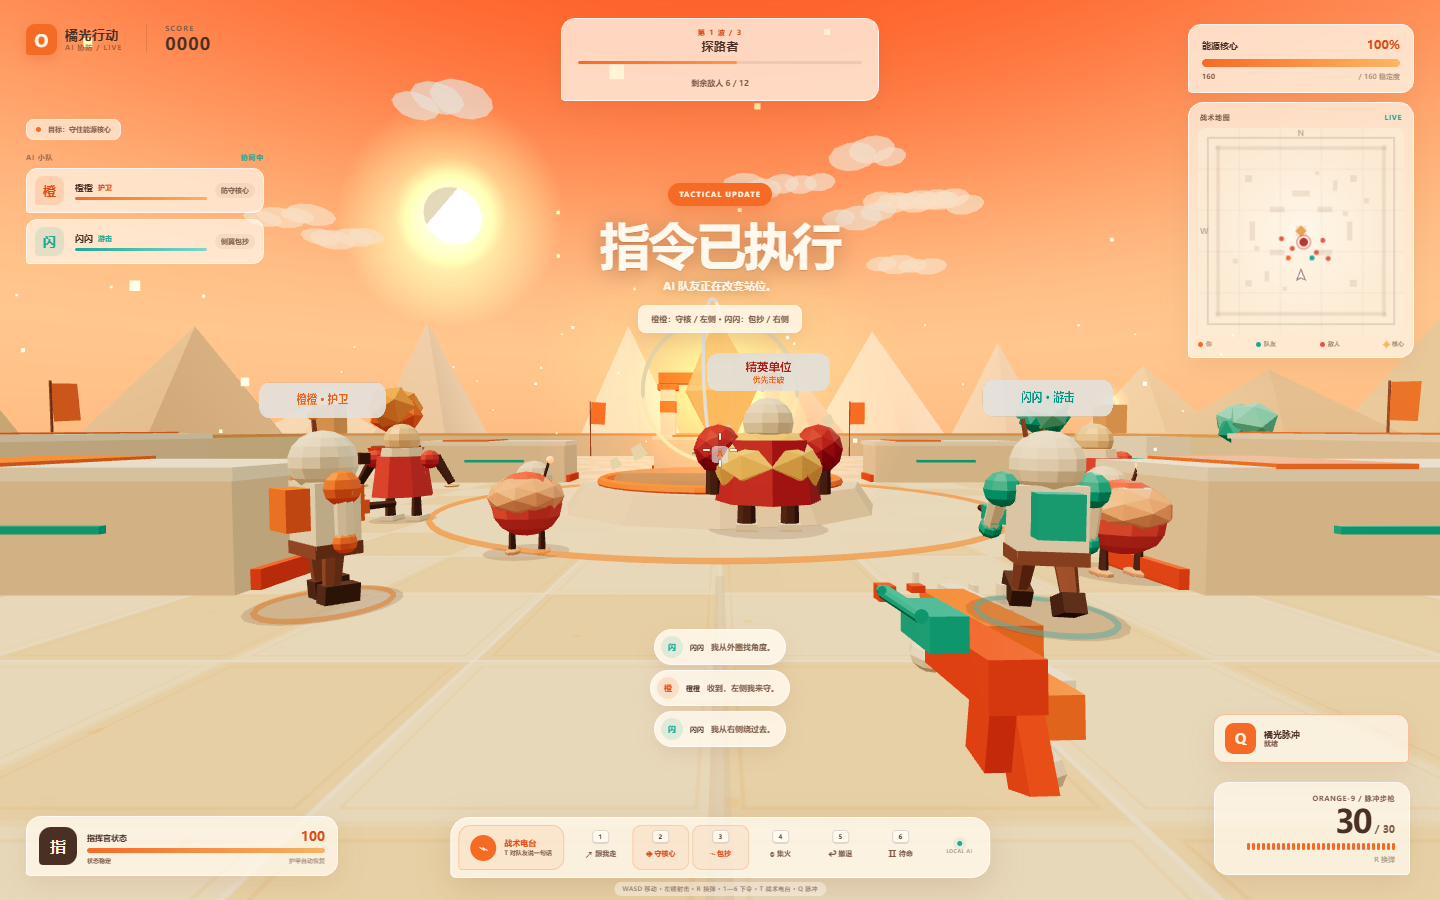
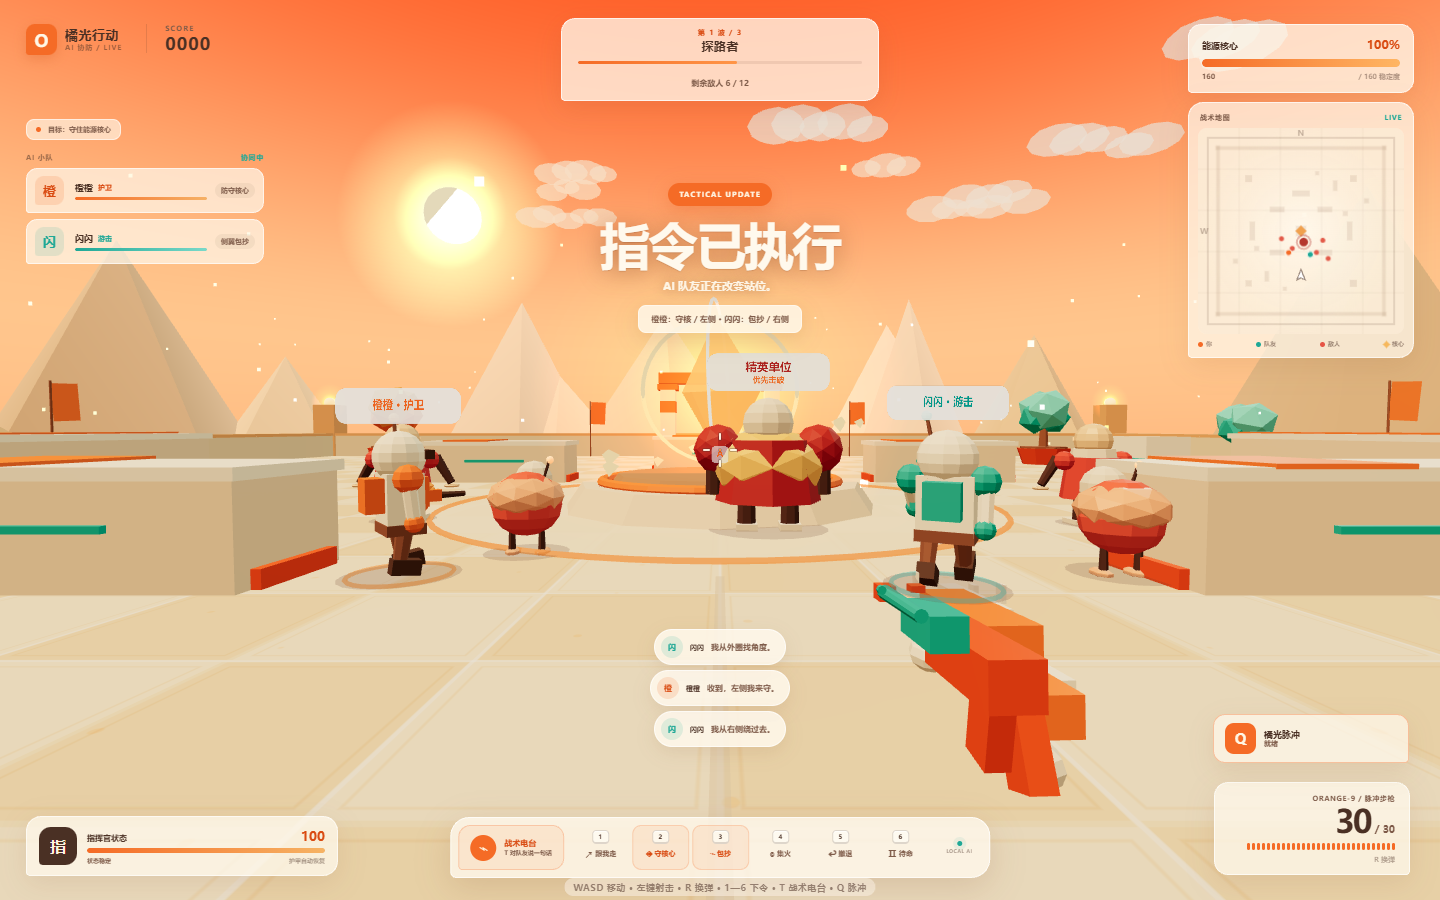
补齐交付文档，修复 HUD 缩放与 iframe 指针锁定降级

diff --git a/src/game.js b/src/game.js
@@ -66,6 +66,9 @@ export class Game {
     this.projectiles = [];
     this.effects = [];
     this.input = { keys: new Set(), mouseDown: false };
+    this.dragLook = false;
+    this.dragging = false;
+    this.lockBlocked = false;
     this.clock = new THREE.Clock();
     this.raycaster = new THREE.Raycaster();
     this.raycaster.far = CONFIG.weapon.range;
@@ -137,19 +140,20 @@ export class Game {
         this.pause();
       }
     });
+    // iframe 里拿不到指针锁时，退化成「按住左键拖动视角」，保证游戏仍然可玩
+    document.addEventListener('pointerlockerror', () => this.enableDragLook());
     document.addEventListener('mousemove', (event) => {
-      if (
-        document.pointerLockElement === this.canvas &&
-        this.state === 'playing' &&
-        !this.ui?.radioOpen
-      ) {
+      if (this.state !== 'playing' || this.ui?.radioOpen) return;
+      const locked = document.pointerLockElement === this.canvas;
+      if (locked || (this.dragLook && this.dragging)) {
         this.player.applyLook(event.movementX, event.movementY, CONFIG.player.mouseSensitivity);
       }
     });
     document.addEventListener('mousedown', (event) => {
       if (event.button !== 0) return;
       if (this.state === 'playing' && !this.ui?.radioOpen) {
-        if (document.pointerLockElement !== this.canvas) {
+        this.dragging = true;
+        if (document.pointerLockElement !== this.canvas && !this.lockBlocked) {
           this.requestPointerLock();
         }
         this.input.mouseDown = true;
@@ -157,10 +161,13 @@ export class Game {
       }
     });
     document.addEventListener('mouseup', (event) => {
-      if (event.button === 0) this.input.mouseDown = false;
+      if (event.button === 0) {
+        this.input.mouseDown = false;
+        this.dragging = false;
+      }
     });
     this.canvas.addEventListener('click', () => {
-      if (this.state === 'playing' && document.pointerLockElement !== this.canvas) {
+      if (this.state === 'playing' && document.pointerLockElement !== this.canvas && !this.lockBlocked) {
         this.requestPointerLock();
       }
     });
@@ -174,11 +181,13 @@ export class Game {
     });
     window.addEventListener('blur', () => {
       this.input.mouseDown = false;
+      this.dragging = false;
       this.input.keys.clear();
     });
     document.addEventListener('visibilitychange', () => {
       if (document.hidden) {
         this.input.mouseDown = false;
+        this.dragging = false;
         this.input.keys.clear();
         if (this.state === 'playing') this.pause();
       }
@@ -234,18 +243,25 @@ export class Game {
     this.input.keys.add(event.code);
   }
 
+  enableDragLook() {
+    if (this.dragLook) return;
+    this.dragLook = true;
+    this.lockBlocked = true;
+    this.ui?.showLockFallback();
+  }
+
   requestPointerLock() {
-    if (document.pointerLockElement === this.canvas) return;
+    if (document.pointerLockElement === this.canvas || this.lockBlocked) return;
     try {
       const result = this.canvas.requestPointerLock();
       if (result && typeof result.catch === 'function') {
         result.catch(() => {
-          // Browsers may reject a synthetic pointer lock request. Clicking the
-          // canvas retries without interrupting the run.
+          // 浏览器拒绝合成事件触发的指针锁定：退回拖拽视角，不中断这一局
+          this.enableDragLook();
         });
       }
     } catch (error) {
-      // Keep the game playable with keyboard even if pointer lock is blocked.
+      this.enableDragLook();
     }
   }
 

diff --git a/src/ui.js b/src/ui.js
@@ -28,6 +28,9 @@ export class UI {
       startButton: $('start-button'),
       intelToggle: $('intel-toggle'),
       intelDrawer: $('intel-drawer'),
+      openWindow: $('open-window'),
+      lockFallback: $('lock-fallback'),
+      lockFallbackOpen: $('lock-fallback-open'),
       muteStart: $('mute-start'),
       resume: $('resume-button'),
       restart: $('restart-button'),
@@ -105,6 +108,17 @@ export class UI {
       this.el.intelToggle.textContent = open ? '收起任务简报' : '查看任务简报';
       this.game.audio.uiClick();
     });
+    // 被嵌在 iframe 里时（例如魔搭创空间），提示可以开新窗口，那里鼠标锁定最稳
+    const embedded = window.self !== window.top;
+    if (embedded && this.el.openWindow) {
+      this.el.openWindow.hidden = false;
+      this.el.openWindow.addEventListener('click', () => {
+        window.open(window.location.href, '_blank', 'noopener');
+      });
+    }
+    this.el.lockFallbackOpen?.addEventListener('click', () => {
+      window.open(window.location.href, '_blank', 'noopener');
+    });
     this.el.muteStart?.addEventListener('click', () => this.toggleMute());
     this.el.resume?.addEventListener('click', () => this.game.resume());
     this.el.restart?.addEventListener('click', () => {
@@ -172,6 +186,11 @@ export class UI {
     this.el.hud.classList.remove('hidden');
     this.el.menuSceneLabel.style.display = 'none';
     document.body.classList.add('is-playing');
+  }
+
+  // 指针锁定被浏览器拦截时（常见于 iframe 嵌入），提示改用拖拽视角
+  showLockFallback() {
+    this.el.lockFallback?.classList.remove('hidden');
   }
 
   showStart() {

diff --git a/styles.css b/styles.css
@@ -2067,16 +2067,55 @@ body.is-playing .menu-scene-label {
   left: 50%;
   bottom: 4px;
   transform: translateX(-50%);
-  padding: 3px 8px;
+  padding: 3px 9px;
   border-radius: 999px;
   background: rgba(255, 248, 235, 0.55);
-  color: rgba(74, 48, 36, 0.5);
-  font-size: 6px;
+  color: rgba(74, 48, 36, 0.55);
+  font-size: 9px;
   font-weight: 600;
   letter-spacing: 0.05em;
   white-space: nowrap;
   pointer-events: none;
   backdrop-filter: blur(8px);
+}
+
+.lock-fallback {
+  position: absolute;
+  left: 50%;
+  bottom: 96px;
+  transform: translateX(-50%);
+  display: flex;
+  align-items: center;
+  gap: 10px;
+  padding: 7px 10px 7px 14px;
+  border-radius: 999px;
+  background: rgba(255, 244, 227, 0.94);
+  border: 1px solid rgba(245, 107, 38, 0.28);
+  box-shadow: 0 10px 26px rgba(184, 92, 38, 0.16);
+  color: #6d4331;
+  font-size: 12px;
+  font-weight: 600;
+  white-space: nowrap;
+  pointer-events: auto;
+}
+
+.lock-fallback b {
+  color: var(--orange-deep, #d94b12);
+}
+
+.lock-fallback button {
+  padding: 5px 11px;
+  border: 0;
+  border-radius: 999px;
+  background: var(--orange);
+  color: #fff6e6;
+  font-size: 12px;
+  font-weight: 800;
+  cursor: pointer;
+}
+
+.lock-fallback button:hover {
+  background: #e85c22;
 }
 
 /* -------------------------------------------------------------------------- */

diff --git a/index.html b/index.html
@@ -57,6 +57,7 @@
               <b>→</b>
             </button>
             <button id="intel-toggle" class="ghost-button" type="button">查看任务简报</button>
+            <button id="open-window" class="ghost-button" type="button" hidden>在新窗口打开</button>
           </div>
           <div id="intel-drawer" class="intel-drawer" aria-hidden="true">
             <div class="intel-item"><b>01</b><span>守住中央能源核心，撑过三波进攻。</span></div>
@@ -234,6 +235,10 @@
       <div id="objective-chip" class="objective-chip"><i></i><span>目标：守住能源核心</span></div>
       <div id="damage-overlay" class="damage-overlay"></div>
       <div class="hud-hints">WASD 移动 · 左键射击 · R 换弹 · 1—6 下令 · T 战术电台 · Q 脉冲</div>
+      <div id="lock-fallback" class="lock-fallback hidden">
+        <span>指针锁定被拦截 · 已切换为<b>按住左键拖动视角</b></span>
+        <button id="lock-fallback-open" type="button">在新窗口打开</button>
+      </div>
     </section>
 
     <section id="pause-screen" class="screen pause-screen hidden">

diff --git a/DEPLOY.md b/DEPLOY.md
@@ -1,0 +1,92 @@
+# 部署到魔搭创空间（Static）
+
+比赛要求作品部署在魔搭创空间且可公开试玩。本项目是纯静态站点，部署方式如下。
+
+## 关键前提
+
+- **`index.html` 必须在仓库根目录**，不能再套一层 `dist/` 或项目目录。
+- 创空间的 **SDK 类型必须选 `Static`**（不要选 Gradio / Streamlit / Docker，那些会拉 Python 镜像跑后端，纯前端用不上还慢）。
+- 所有资源都是相对路径（`./styles.css`、`./src/main.js`、`../vendor/three.module.js`），换域名、换子目录都不用改代码。
+
+## 方式 A：网页上传（文件少，推荐）
+
+1. 打开 <https://modelscope.cn/studios>，点右上角「创建创空间」。
+2. 填空间名（建议 `orange-protocol`）、显示名「橘光行动 · AI 协防」、简介。
+   可见性第一次先选**私有**，验收完再改公开。
+3. 进入空间的「空间文件」页，把本目录下这些内容**整体上传**（保持目录结构）：
+
+   ```
+   index.html
+   styles.css
+   src/          （8 个 .js）
+   vendor/       （three.module.js / three.core.js / LICENSE-three.txt）
+   ```
+
+   `checks/`、`screenshots/`、`README.md`、`SUBMISSION.md`、`server.mjs` 可以不传，不影响运行。
+4. 进入「设置 / 部署设置」，SDK 类型选 **Static**，入口文件填 `index.html`，保存。
+5. 等状态变成「运行中」，打开 `https://modelscope.cn/studios/<你的用户名>/orange-protocol`。
+
+> 若平台要求 `README.md` 里写 `deployspec`，在空间仓库的 README 顶部加：
+>
+> ```yaml
+> ---
+> deployspec:
+>   entry_file: index.html
+> ---
+> ```
+>
+> 这种情况请**只改空间里的那份 README**，别把 YAML 头写进项目 README（GitHub 上会把这段渲染成一张表）。
+
+## 方式 B：git 推送
+
+```bash
+git remote add space https://www.modelscope.cn/studios/<用户名>/orange-protocol.git
+git push space main
+```
+
+推完同样要去「部署设置」确认 SDK = Static、入口 = `index.html`。
+
+## 部署后必做的验收
+
+### 1. 打开空间首页，看 iframe 里能不能玩
+
+创空间会把页面嵌在自己的 iframe 里。**浏览器默认不允许 iframe 拿指针锁定**，除非平台给 iframe 加了 `allow="pointer-lock"`。本作已经做了两层兜底：
+
+- 检测到 `pointerlockerror` → 自动切换成 **按住左键拖动视角**，并在指令栏上方浮出一条提示；
+- 检测到在 iframe 里运行 → 开始页多出一个「在新窗口打开」按钮。
+
+**验收动作**：点开始 → 动鼠标看视角是否跟着转。
+
+- 视角跟着转 → 指针锁定成功，正常。
+- 视角不转、底部出现「指针锁定被拦截」→ 点提示里的「在新窗口打开」，在新标签页里玩。这条路径一定能拿到指针锁定。
+
+如果希望评委默认就能在 iframe 里玩，去平台确认空间 iframe 是否带 `allow="pointer-lock"`；带不上就保留现在的兜底，并在提交说明里写一句「建议在新窗口打开获得最佳手感」。
+
+### 2. 控制台零报错
+
+F12 → Console，确认没有红色。重点看：
+
+- `three.module.js` 404 → `vendor/` 没传全（`three.core.js` 必须和它放一起）；
+- `Failed to load module script` → MIME 类型不对，通常是上传后文件名被改动。
+
+### 3. 完整跑一局
+
+开场 → 三波 → 结算。确认：
+
+- 队友能听懂 `1`—`6` 和 `T` 打字的指令；
+- 音效在首次点击后才有（浏览器自动播放策略，正常）；
+- 结算页有评级和队长点评。
+
+### 4. 换个屏幕尺寸
+
+1080p 与 2K 各开一次，HUD 不应错位或被裁切（HUD 会按视口宽度等比缩放）。
+
+## 常见问题
+
+| 现象 | 原因 | 处理 |
+|---|---|---|
+| 打开是空白页 | `index.html` 不在根目录 | 把所有文件铺到根，不要留子目录 |
+| 页面能开但全黑 | `vendor/three.core.js` 缺失 | 补传该文件 |
+| 点了开始没反应 | 控制台报错，看第一条红字 | 按报错定位 |
+| 鼠标不能转视角 | iframe 未授予指针锁定 | 用「在新窗口打开」，或点提示条里的按钮 |
+| 加载很慢 | 首次拉 2.1MB 的 three.js | 正常，后续走缓存 |

diff --git a/README.md b/README.md
@@ -168,7 +168,10 @@ node checks/showcase.mjs   # 生成 checks/ 下的展示截图
 
 - 目标：桌面 Chrome / Edge，独显或核显均可（i5-1135G7 核显实测流畅）。
 - 渲染分辨率上限按设备像素比 1.35 截断，避免高分屏掉帧。
+- HUD 按视口宽度等比缩放，1080p / 2K 下比例一致。
 - 移动端会显示「请用桌面浏览器」提示，不做触屏适配。
+
+**关于嵌入播放**：被放进 iframe 时（例如魔搭创空间），浏览器可能不允许页面申请指针锁定。此时游戏会自动切换成「按住左键拖动视角」，并在指令栏上方给出提示与「在新窗口打开」按钮，不会卡死。部署细节见 `DEPLOY.md`。
 
 ---
 
@@ -184,5 +187,6 @@ node checks/showcase.mjs   # 生成 checks/ 下的展示截图
 
 ## 开发记录
 
+- `DEPLOY.md`：部署到魔搭创空间（Static）的步骤与验收清单
 - `SUBMISSION.md`：参赛手记、创作过程、演示视频脚本、提交清单
 - `D:/coding/dailywork/AI造游戏_FPS参赛方案_20261111.md`（仓库外）：立项方案与拿奖策略

diff --git a/SUBMISSION.md b/SUBMISSION.md
@@ -165,7 +165,8 @@
 - ✅ 开始 → 教学提示 → 三波战斗 → 胜负 → 重开，全链路走通
 - ✅ 指令改变移动、目标与战术（31 项真浏览器断言覆盖）
 - ✅ 断网可完整游玩（本地解析为默认路径）
-- ⬜ 部署到魔搭创空间，公开访问验证
+- ✅ iframe 内指针锁定被拦截时自动降级为拖拽视角（创空间嵌播放的兜底）
+- ⬜ 部署到魔搭创空间，公开访问验证（步骤见 `DEPLOY.md`）
 
 ### 材料
 
